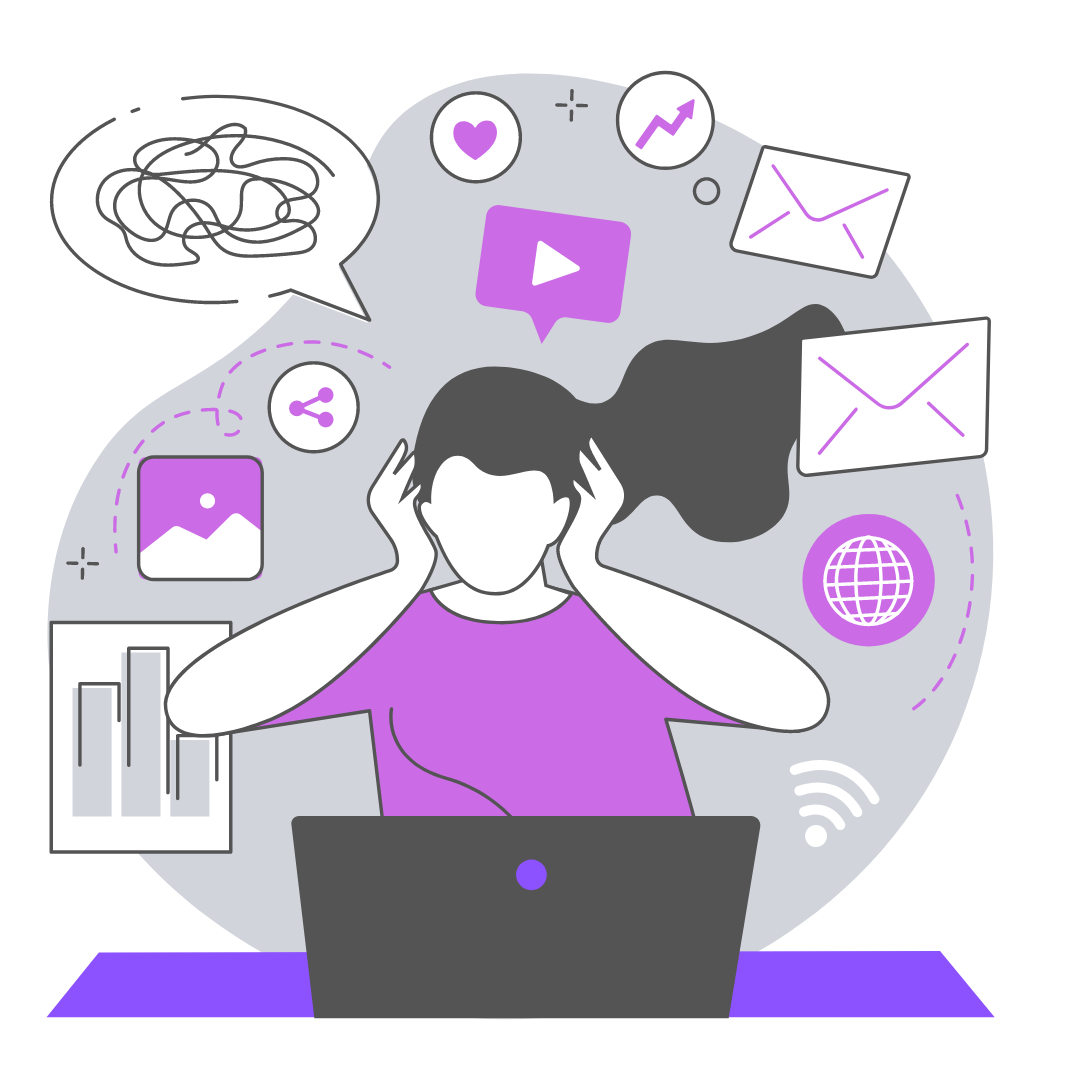
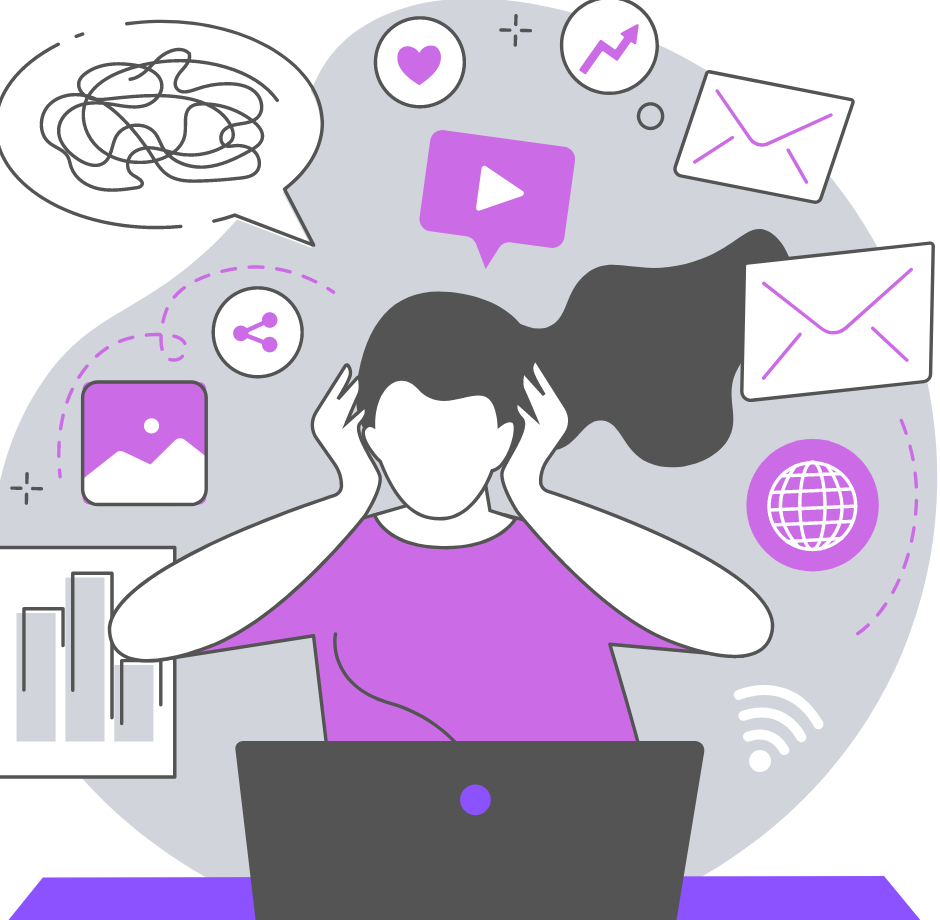
update html branch
added other photoes

diff --git a/index.html b/index.html
@@ -19,7 +19,7 @@
         text-align: right;
       }
       img {
-        max-width: 70%;
+        max-width: 80%;
         height: auto;
       }
     </style>
@@ -49,7 +49,6 @@
         </h2>
         <p
           style="
-            left: auto;
             font-size: 20px;
             font-family: 'Lucida Sans', 'Lucida Sans Regular', 'Lucida Grande',
               'Lucida Sans Unicode', Geneva, Verdana, sans-serif;
@@ -98,7 +97,7 @@
         </p>
       </div>
       <div class="image">
-        <img src="images/22.png" alt="Addiction photo" />
+        <img src="images/222.jpg" alt="Addiction photo" />
       </div>
     </section>
     <section class="container">
